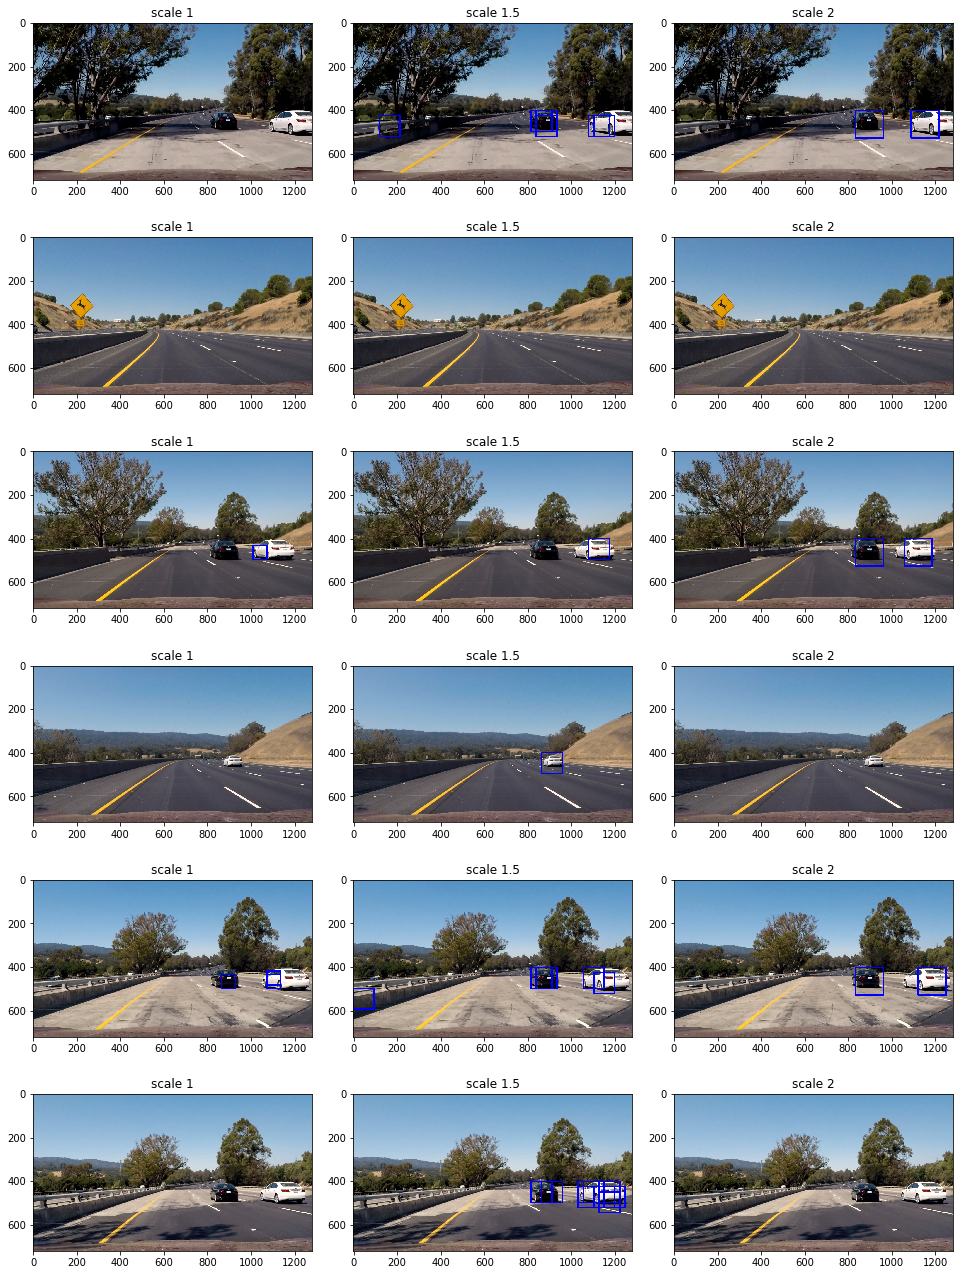
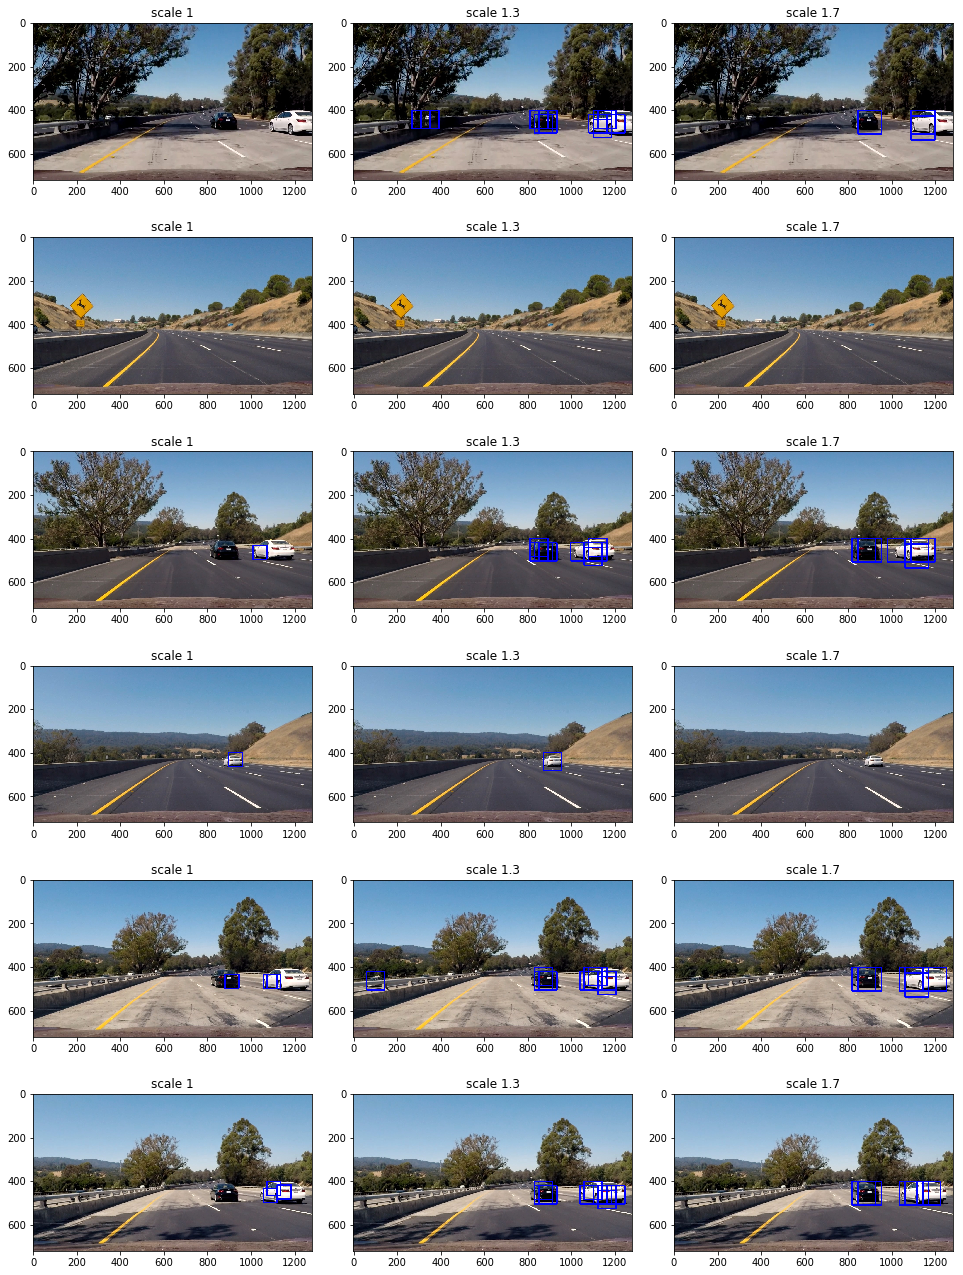
updated writeup

diff --git a/README.md b/README.md
@@ -60,57 +60,69 @@ The decision was to use 8 orientations, 8 pixels per cell and 2 cells per block,
 
 ## Training a classifier
 
-HOG features from all channels of HSV color space were used as features for the classifier, implemented in the `get_hsv_hog_features` function under "Training a classifier" section of the notebook.
+Feature extraction is implemented in the "Training a classifier" section of the notebook. I used HOG features from all channels of HSV color space with parameters as described in the previous section. In addition, I added HSV histogram features with 32 bins for all channels. As a result, my feature set contains 4800 features, where 4704 are HOG features and 96 are histogram features.
 
-Features were extracted from vehicle and non-vehicle train images, 17760 images in total. The dataset is balances, with ca. equal number of images in both categories. The appropriate labels were generated: 1 - vehicle, 0 - non-vehicle. Features were normalized using the `StandardScaler` from `sklearn`.
+Features were extracted from vehicle and non-vehicle train images, 17760 images in total. The dataset is balanced, with equal number of images in both categories. The appropriate labels were generated: 1 - vehicle, 0 - non-vehicle. Features were normalized using the `StandardScaler` from `sklearn`.
 
-I used linear SVM classifier with default parameters. For training and testing the datase was split into train and test set, where test set contains 20% of data. Data is shuffled by default when using the `train_test_split()` function. The classifier achived test accuracy of 97.8%.
+I used linear SVM classifier with default parameters. The datase was split into training and testing sets, where testing set contains 20% of images. Data is shuffled by default when using `train_test_split()`. The classifier test accuracy is 98.8%.
 
 ## Sliding Window Search
 
-I implemented the optimized version of sliding window search that extracts HOG features only once and then takes a subsample window to classify. The implementation is in the `find_cars()` function under "Sliding window search" section of the notebook. The image is cropped vertically and then HOG features are extracted the same way as for the training images. The output is a list of bounding boxes for identified cars. Here is the visualizaiton for the test images:
+I implemented the optimized version of sliding window search that extracts HOG features only once and then takes a subsample window to classify. The implementation is in the `find_cars()` function under "Sliding window search" section of the notebook. The image is cropped vertically and then HOG features are extracted the same way as for the training images. Here is the visualization of sliding windows with the following parameters:
+scale=2, px_per_cell=4, cell_per_block=2, cell_per_step=3.
 
-![](output_images/sliding_window.png "Visualization of HOG features with different parameter values")
+![](output_images/windows.png "Visualization of sliding windows")
 
-As can be ssen from images above, I experimented with different scales, concluding that a combination of scales 1.5 and 2 work reasonable well.
+The output is a list of bounding boxes for identified cars. Here is the visualizaiton for the test images:
 
-SVM classifier seems to work reasonable well with reasonably high test accuracy and good performance on the test images. It also seems that a classifier is sensitive to scale. One way to improve it is to do data augumentation, e.g. add cropped and scaled vehicle images to training set. My best guess is that using convolutional neural network would be the best approach. ConvNets are known to perform very well in image classification tasks. This we can avoid manual feature engeneering, process the whole image in one step instead of using sliding window (position invariance and use GPU for faster processi
+![](output_images/sliding_window.png "Different scales for sliding window method")
 
-Only one false positive shows up on test images. Video pipeline described further in this report attempts to eleiminate false positives by looking at multiple frames.
+As can be seen from images above, I experimented with different scales. At the end I choose to use a combination of scales 1.3 and 1.7.
+
+Although linear SVM classifier performs well it is sensitive to scale. One way to improve it is through data augumentation, e.g. add cropped and scaled vehicle images to training set. Another way to improve the classifier is to add other types of features. I experimented with spatial color features without much success. Although the test accuracy increased to 99.3%, when applied to test image there were a lot of false positives. It might indicate overfitting or a bug in my implementation. With HOG and histogram features few false positives show up on test images. Video pipeline described further in this report attempts to eleminate false positives by looking at multiple consequent frames.
 
 ## Video Implementation
 
-## Video pipeline
+### Pipeline steps and parameters
 
-Video pipeline is implemented under "Video pipeline" section of the notebook in the `VehicleDetector` class . Video pipeline looks at 20 last frames of the video, storing and aggergating bounding boxes from these frames in a heatmap. This heatmap is then used to identify pixels that are likely to contain a vehicle, drawing bounding boxes around them.
+The pipeline is implemented in the "Video pipeline" section of the notebook. The pipeline conatins the following steps:
 
+1. Find bounding boxes from the current frame
+1. Create a heatmap from these boxes
+1. Use heat threshold to create a binary image
+1. Store binary image in the buffer, together with binary images from previous frames
+1. Merge binary images from last N frames
+1. Apply threshold to a merged image to create another binary image, this time using buffer threshold
+1. Use `label` to label features in the thresholded merged image
+1. Draw bounding boxes around labeled features
+
+This pipeline contains includes three new parameters:
+
+* heat threshold = 2: number of overlapping bounding boxes from one frame to activate the pixel in the binary image
+* buffer threshold = 0.5: number of overlapping activated pixels from binary images in the buffer to activate the pixel in the mereged image, defined as the proportion of images in the buffer
+* buffer size = 5: number of binary images from previous frames
+
+### Visualization of the pipeline
+
+The pipeline was developed to deal with false negatives and false positives. Here is an example of how it handles false negatives, when the classifier fails to detect a vehicle in some frames. This visualization shows how the pipeline fills missed detection from previous frames dureing the merge step.
+
+![](output_images/false_neg.png "Visualization of the video pipeline on frames with false negatives")
+
+Next visualization shows how this pipeline deals with false positives, when a vehicle is detected where there ar eno vehicles. False positive detections are eliminated when appling the heat threshold, generating binarry images.
+
+![](output_images/false_pos.png "Visualization of the video pipeline on frames with false positives")
+
+### Video processing
+
+The pipeline was reimplemented in the `VehicleDetector` class which the the supporting funcitons to process videos.
 Here is [the output for the test video](./output_videos/test_video.mp4) and here is [the output for the project video](./output_videos/project_video.mp4)
 
+## Discussion
 
+I was not able to eliminate all false positives in the project video. Future work would be to improve the classifier:
 
-#### 2. Describe how (and identify where in your code) you implemented some kind of filter for false positives and some method for combining overlapping bounding boxes.
+* Add more training data
+* Data augmentation, crop and scale images from existing training data to make the classifier more invarient to scale
+* Use a convolutional neural network, which are known to perform very well in image classification tasks
 
-I recorded the positions of positive detections in each frame of the video.  From the positive detections I created a heatmap and then thresholded that map to identify vehicle positions.  I then used `scipy.ndimage.measurements.label()` to identify individual blobs in the heatmap.  I then assumed each blob corresponded to a vehicle.  I constructed bounding boxes to cover the area of each blob detected.  
-
-Here's an example result showing the heatmap from a series of frames of video, the result of `scipy.ndimage.measurements.label()` and the bounding boxes then overlaid on the last frame of video:
-
-### Here are six frames and their corresponding heatmaps:
-
-![alt text][image5]
-
-### Here is the output of `scipy.ndimage.measurements.label()` on the integrated heatmap from all six frames:
-![alt text][image6]
-
-### Here the resulting bounding boxes are drawn onto the last frame in the series:
-![alt text][image7]
-
-
-
----
-
-### Discussion
-
-#### 1. Briefly discuss any problems / issues you faced in your implementation of this project.  Where will your pipeline likely fail?  What could you do to make it more robust?
-
-Here I'll talk about the approach I took, what techniques I used, what worked and why, where the pipeline might fail and how I might improve it if I were going to pursue this project further.  
-
+Annother issue is that the current pipeline can't distinguish between cars when they overlap, e.g. 36s in the project video. Finally the pipeline is rather slow, processing of every frame takes 1.5 seconds on Intel Core i7-3770 CPU. My experiments revealed that the main factor is the number of sliding windows, thus lower scaling takes much more time. Vectorising the sliding window algorithm and using GPU would speed up the computations.
